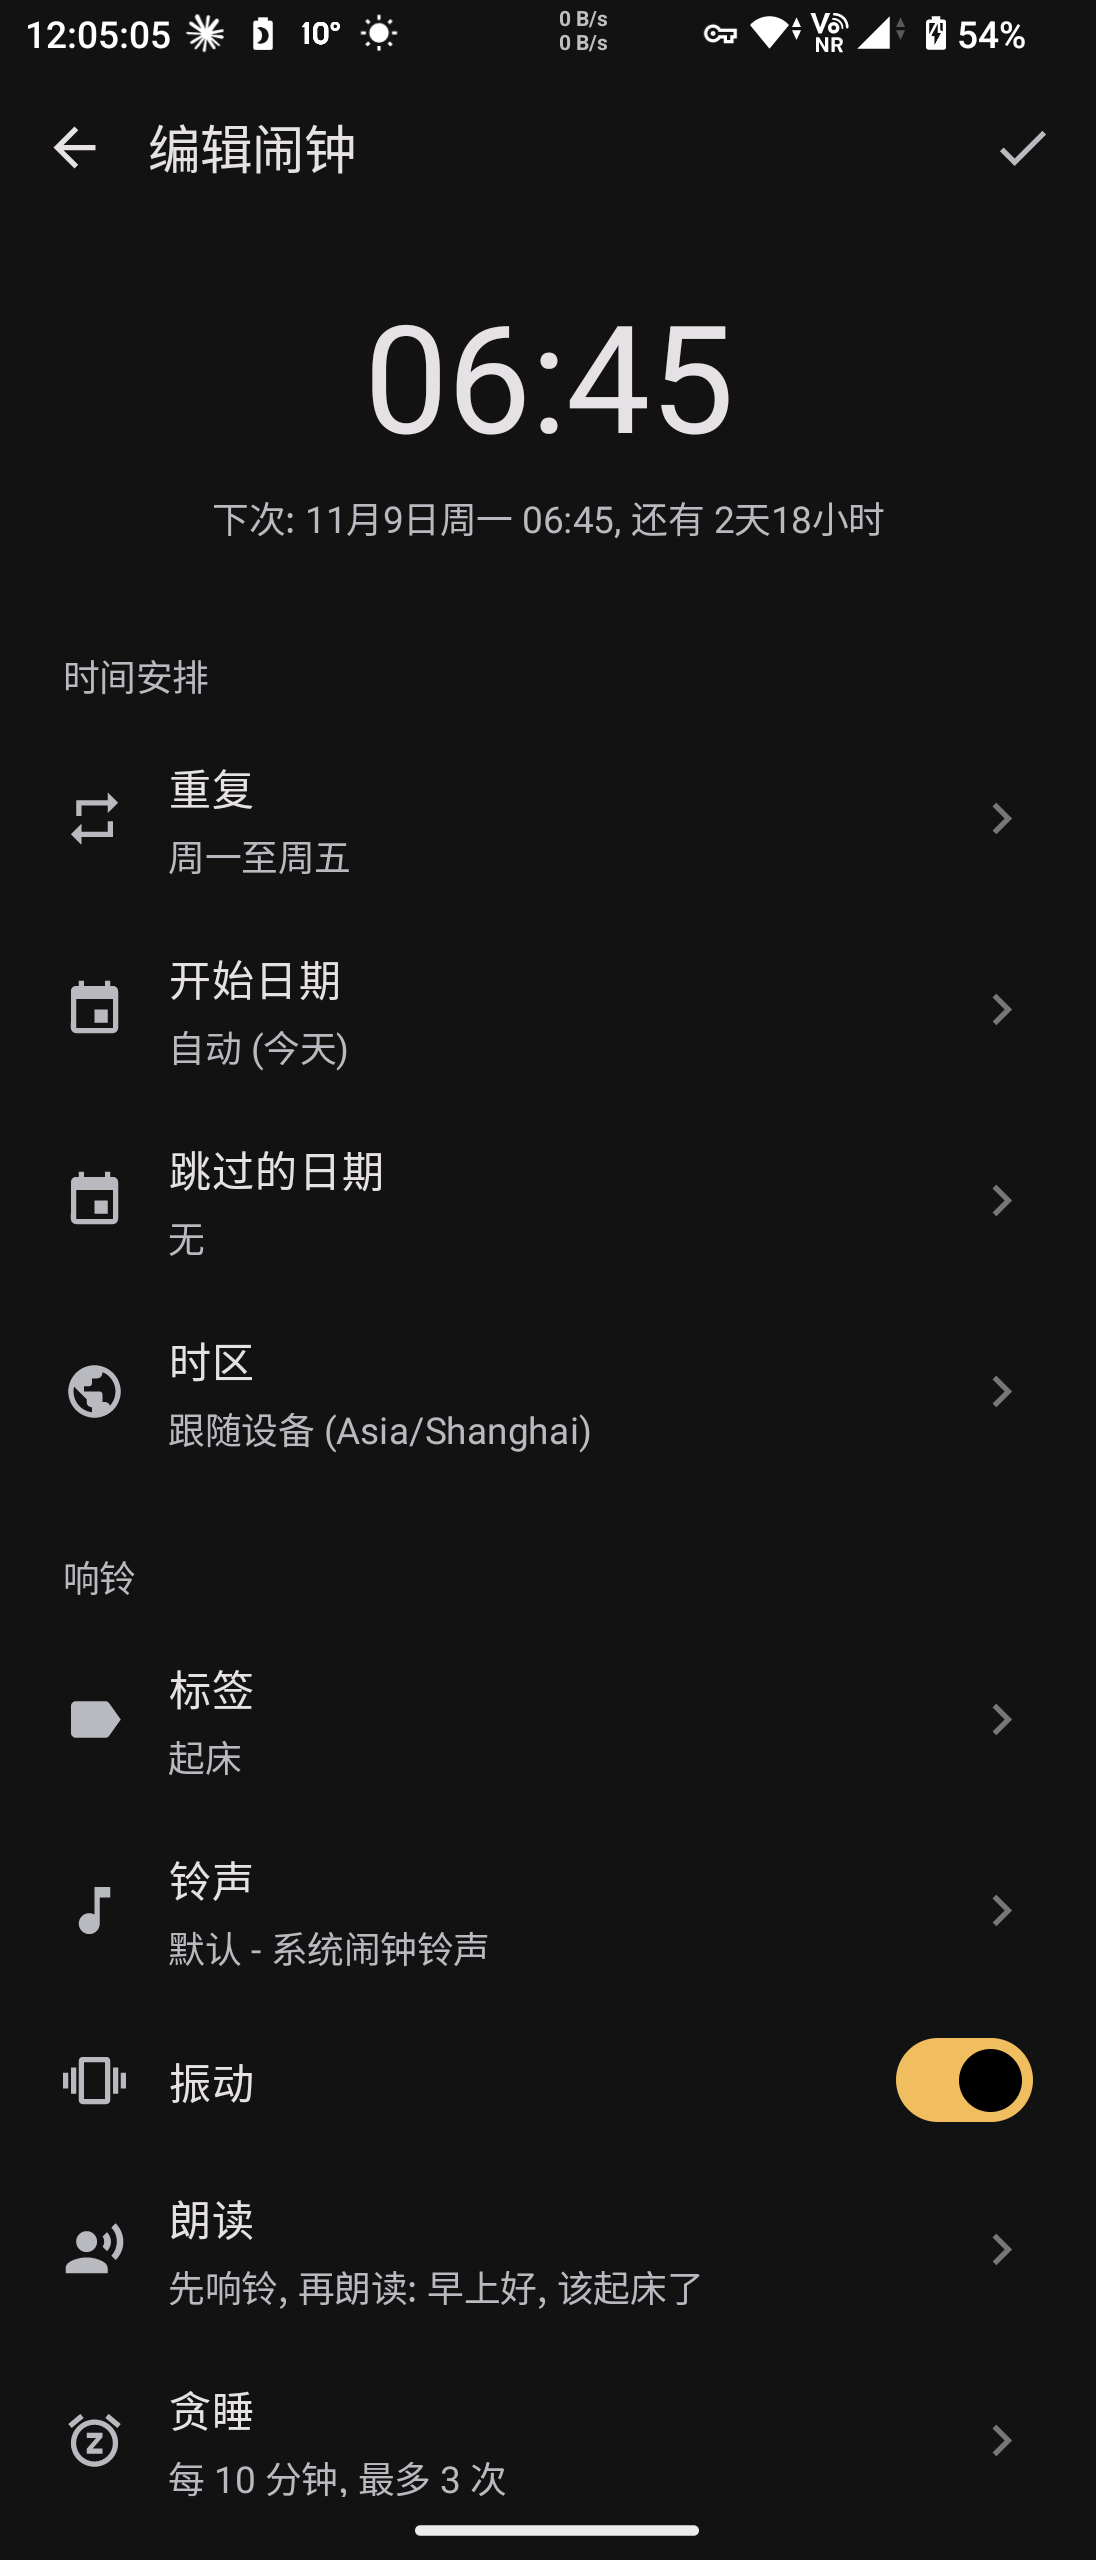
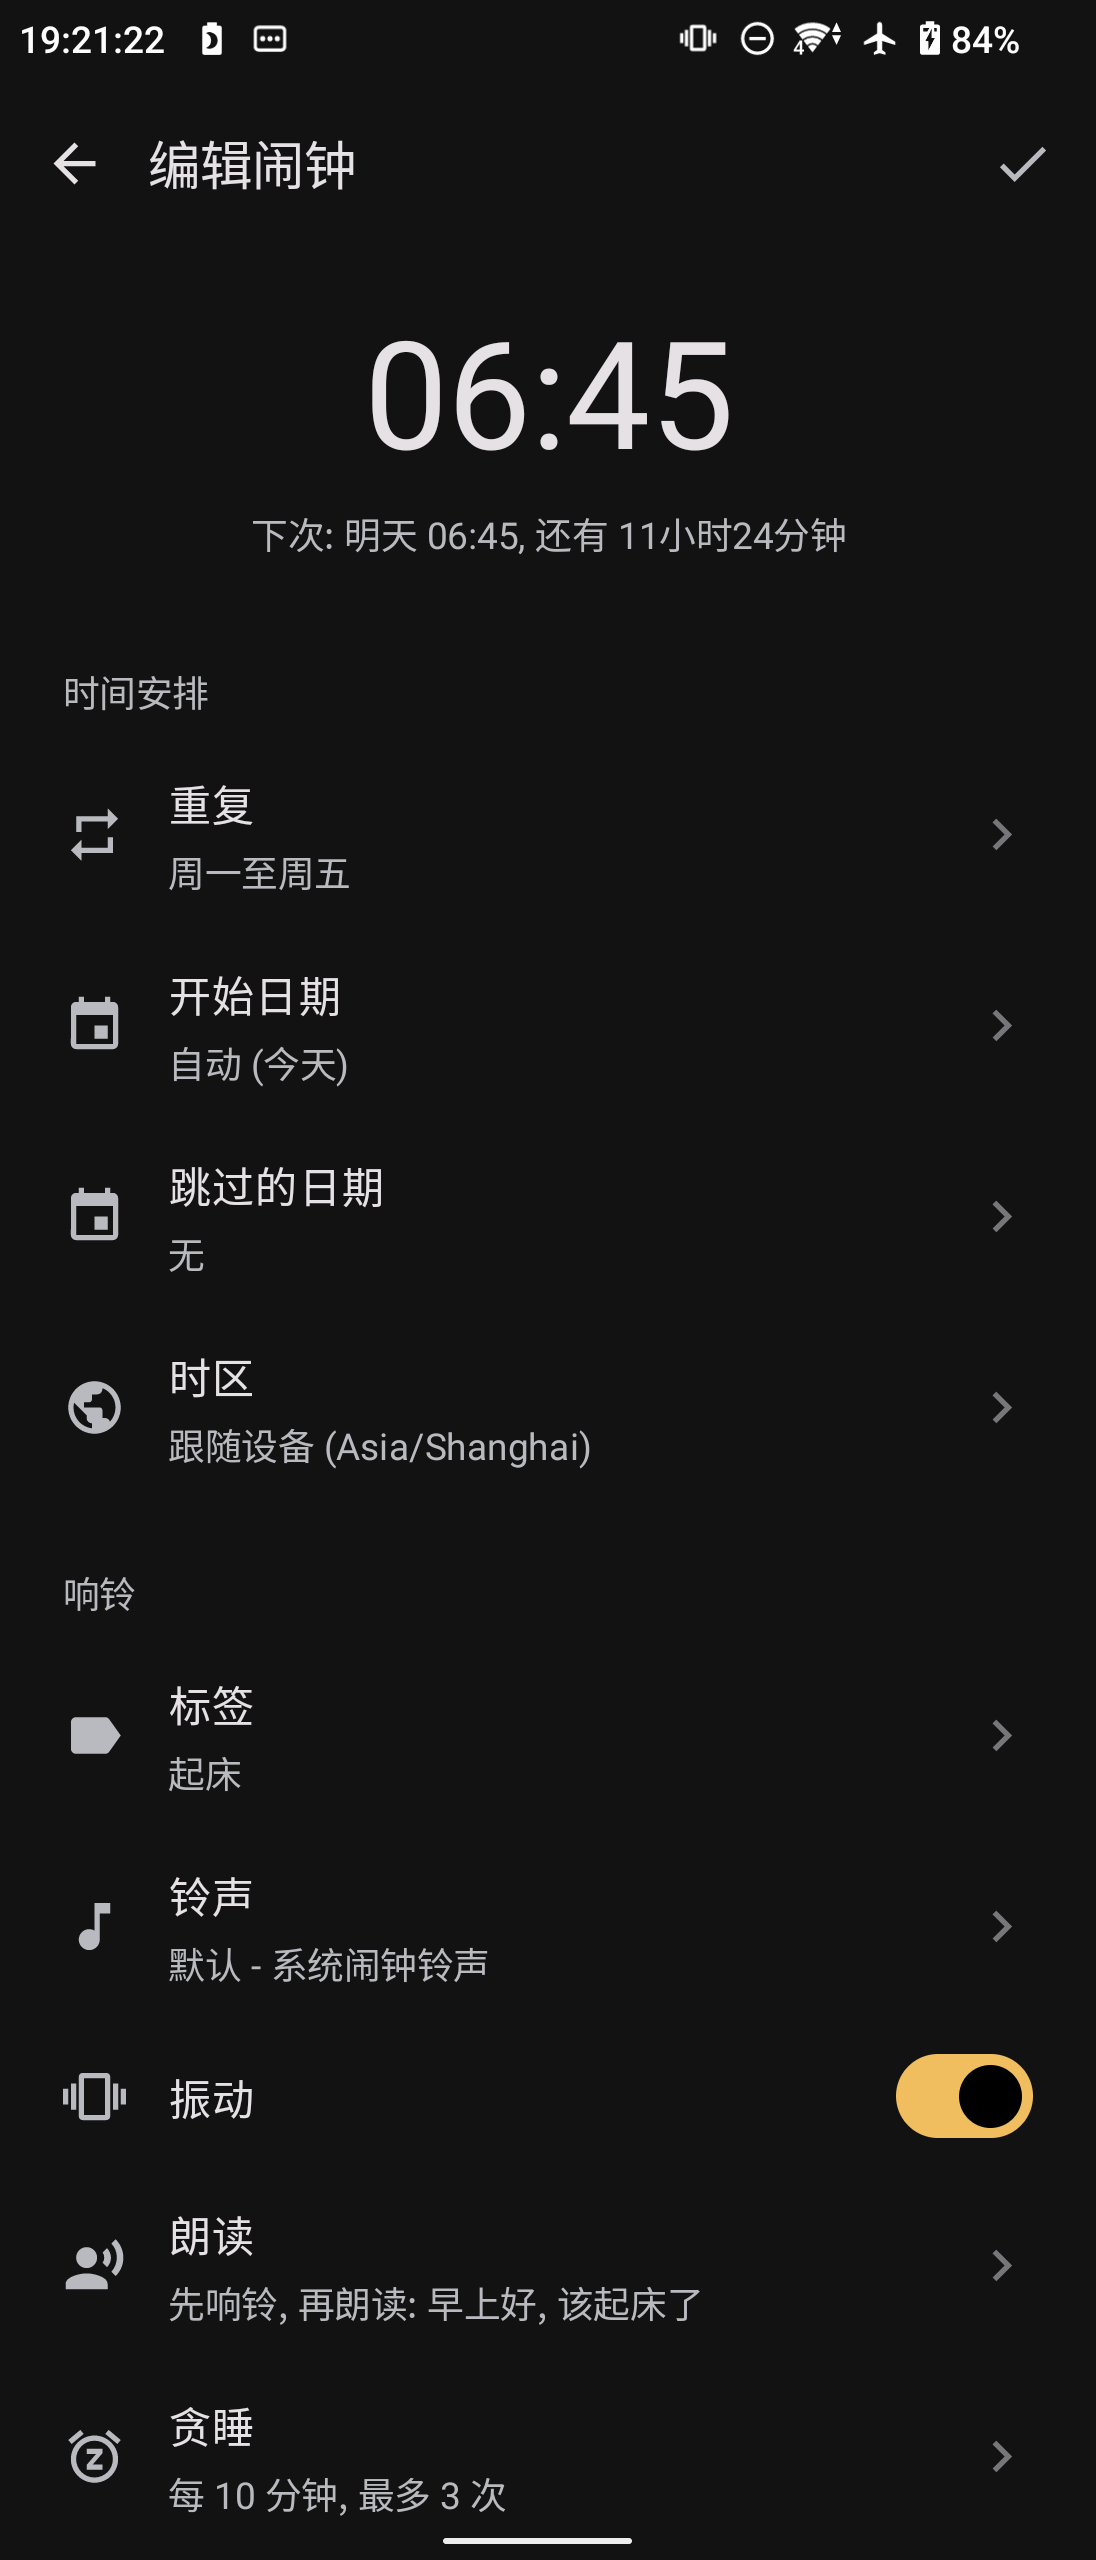
docs(release): retake the screenshots, check the timer tools through MCP and record the 1.1.0 baseline
List, edit and settings screenshots retaken and timers / stopwatch screenshots added on XQ-AT72 (T142); mcp_tools.py checks chime_timer_start, chime_timer_list and chime_timer_control (17 / 17 on XQ-AT72); ROADMAP D.2 gets the 1.1.0 drift and cold start values (same device baseline from v1.0.1), T106 is reviewed against the local CI mirror; VERSION_BUILD 64.

diff --git a/.python/mcp_tools.py b/.python/mcp_tools.py
@@ -12,7 +12,9 @@ waits while the maintainer allows it on the phone.
 Checks: `tools/list` names the twelve chime tools (the nine alarm tools, since 1.1.0 also the three timer tools of roadmap
 P7.6) with MCP annotations from their risk, then `chime_alarm_add` (a weekday
 alarm 30 days ahead, tag p42-mcp), `chime_alarm_list`, `chime_alarm_upcoming` and `chime_alarm_remove` (the test alarm
-is removed, also after a failure). Output: PASS / FAIL per check with counts and ids only, never the token or the tool list.
+is removed, also after a failure), then `chime_timer_start` (a silent 30 min timer, label p77 mcp), `chime_timer_list`,
+`chime_timer_control` pause / add / cancel and a refused pause with a duration (the test timer is cancelled, also after a
+failure). Output: PASS / FAIL per check with counts and ids only, never the token or the tool list.
 """
 import argparse
 import datetime
@@ -30,6 +32,7 @@ from mcp_client import McpClient, McpError, PAIRING_REQUIRED  # noqa: E402
 
 CLIENT_NAME = "chime-p42-evidence"
 TAG = "p42-mcp"
+TIMER_LABEL = "p77 mcp"
 PAIRING_WAIT = [180]
 TOOLS = [
     "alarm_add", "alarm_list", "alarm_update", "alarm_remove", "alarm_set_enabled", "alarm_skip_next", "alarm_upcoming", "alarm_dismiss", "alarm_snooze",
@@ -93,6 +96,44 @@ def initialize(client, wait):
             time.sleep(3)
 
 
+def timer_cases(client, report):
+    """The timer tools (roadmap P7.6 / P7.7): start a silent 30 min timer, list it, pause it, add a minute, cancel it."""
+    started = None
+    try:
+        ok, body, ms = call(client, "timer_start", {"duration": "30m", "label": TIMER_LABEL, "sound": {"source": "silent"}})
+        timer = body.get("timer") or {}
+        if ok and timer.get("id"):
+            started = timer["id"]
+        report.line("chime_timer_start", ok and str(timer.get("id", "")).startswith("t_") and timer.get("state") == "running"
+                    and timer.get("durationMillis") == 1800000 and bool(timer.get("endsAtTime")),
+                    f"{ms} ms, id {timer.get('id')}, state {timer.get('state')}, remaining {timer.get('remaining')}" if ok else str(body)[:160])
+        if started is None:
+            return
+        ok, body, ms = call(client, "timer_list", {})
+        ids = [t.get("id") for t in body.get("timers", [])]
+        report.line("chime_timer_list", ok and started in ids, f"{ms} ms, {len(ids)} timers")
+        ok, body, ms = call(client, "timer_control", {"id": started, "action": "pause"})
+        paused = body.get("timer") or {}
+        report.line("chime_timer_control pause", ok and paused.get("state") == "paused" and "endsAt" not in paused,
+                    f"{ms} ms, state {paused.get('state')}, remaining {paused.get('remaining')}")
+        ok, body, ms = call(client, "timer_control", {"id": started, "action": "add", "duration": "1m"})
+        added = body.get("timer") or {}
+        gained = (added.get("remainingMillis") or 0) - (paused.get("remainingMillis") or 0)
+        report.line("chime_timer_control add", ok and gained == 60000, f"{ms} ms, +{gained} ms, remaining {added.get('remaining')}")
+        try:
+            ok, body, ms = call(client, "timer_control", {"id": started, "action": "pause", "duration": "1m"})
+            report.line("duration only with add refused", not ok, f"{ms} ms, tool error" if not ok else str(body)[:160])
+        except McpError as e:
+            report.line("duration only with add refused", True, f"protocol error {e.code}")
+    finally:
+        if started is not None:
+            ok, body, ms = call(client, "timer_control", {"id": started, "action": "cancel"})
+            report.line("chime_timer_control cancel", ok and body.get("removed") is True, f"{ms} ms, removed {body.get('removed')}")
+            ok, body, _ = call(client, "timer_list", {})
+            left = [t.get("id") for t in body.get("timers", []) if t.get("label") == TIMER_LABEL]
+            report.line("no test timer left", ok and not left, f"{len(left)} left")
+
+
 def main(argv=None):
     parser = argparse.ArgumentParser(description=__doc__, formatter_class=argparse.RawDescriptionHelpFormatter)
     parser.add_argument("serial")
@@ -143,6 +184,7 @@ def main(argv=None):
                     created.remove(alarm_id)
             ok, body, _ = call(client, "alarm_list", {"tag": TAG})
             report.line("no test alarm left", ok and body.get("total") == 0, f"total {body.get('total')}")
+        timer_cases(client, report)
     print(f"{args.serial}: MCP TOOLS {'PASS' if report.failed == 0 else 'FAIL'} ({report.passed} passed, {report.failed} failed)")
     return 0 if report.failed == 0 else 1
 
